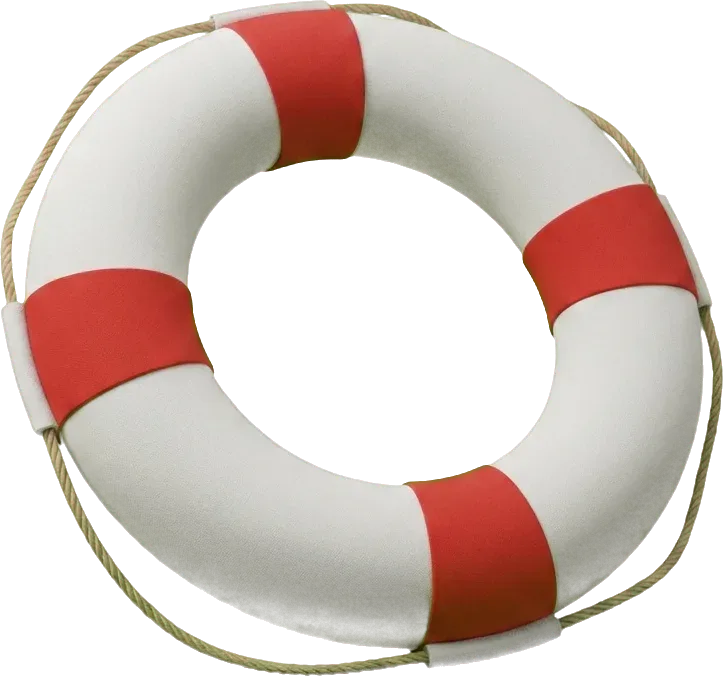
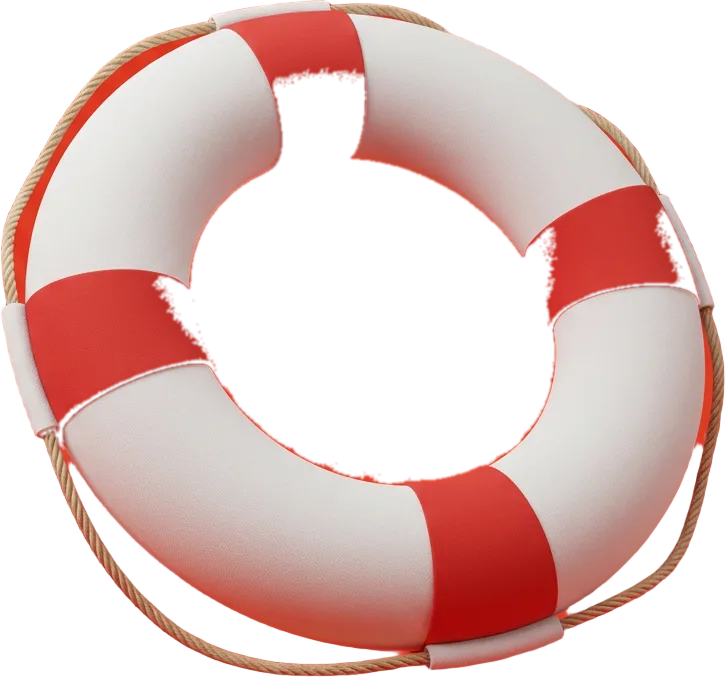
Carte rouge sur page blanche, vague de descente, Approche avant Mission
Le blanc entoure désormais la carte de la hero au lieu d'un liseré ; la
flèche du bas devient une vague blanche creusée dans le rouge. La bouée
est redétourée depuis le BiRefNet de l'image d'origine, seul le trou
étant creusé par diffusion sur le canal bleu (fond b<42, segments b>49) :
fin des voiles et franges des chroma keys successifs. Sections Approche
et Mission inversées, la carte sombre de Mission se posant sur le blanc.

diff --git a/src/app/page.tsx b/src/app/page.tsx
@@ -89,11 +89,67 @@ export default function Home() {
       {/* ─── Héro — carte encadrée, marque géante, bouée 3D ─── */}
       <Hero />
 
+      {/* ─── Notre approche ─── */}
+      <section id="approche" className="bg-white">
+        <div className="mx-auto max-w-6xl px-5 py-20 md:py-28">
+          <Reveal>
+            <p className="text-xs font-black uppercase tracking-widest text-brand">
+              Notre approche
+            </p>
+            <h2 className="mt-3 max-w-3xl text-3xl md:text-5xl font-black leading-tight tracking-tight">
+              On commence par t&apos;écouter.
+            </h2>
+            <p className="mt-7 max-w-2xl text-lg leading-relaxed text-ink/75">
+              Chaque resto est différent. Avant de parler solution, on veut
+              comprendre c&apos;est quoi, ton vrai problème.
+            </p>
+          </Reveal>
+
+          <div className="mt-12 grid gap-8 md:grid-cols-3">
+            {[
+              {
+                n: "1",
+                title: "On t'écoute.",
+                text: "Un appel de 15 minutes. Tu nous parles de ton resto, de tes chiffres, de ce qui gruge ton temps et tes marges.",
+              },
+              {
+                n: "2",
+                title: "On creuse avec toi.",
+                text: "On regarde ensemble ce qui te coûte le plus cher, et on te le montre chiffres en main.",
+              },
+              {
+                n: "3",
+                title: "On règle le problème.",
+                text: "Une solution adaptée à ton resto, pas une recette toute faite. Pas de contrat de 40 pages non plus.",
+              },
+            ].map(({ n, title, text }, i) => (
+              <Reveal key={n} delay={i as 0 | 1 | 2}>
+                <div className="h-full rounded-2xl bg-bone p-7 transition hover:-translate-y-1 hover:shadow-lg">
+                  <p className="font-script text-5xl text-brand">{n}</p>
+                  <h3 className="mt-3 text-xl font-black leading-snug">
+                    {title}
+                  </h3>
+                  <p className="mt-3 leading-relaxed text-ink/75">{text}</p>
+                </div>
+              </Reveal>
+            ))}
+          </div>
+
+          {/* TODO_USER: valider que cette phrase reste exacte tant que la certification n'est pas obtenue */}
+          <Reveal>
+            <p className="mt-10 max-w-2xl text-sm text-ink/60">
+              On travaille déjà avec des restos pilotes de chez nous. Les
+              premiers partenariats officiels seront annoncés bientôt.
+            </p>
+          </Reveal>
+        </div>
+      </section>
+
       {/* ─── Notre mission ─── */}
-      {/* Le fond rouge de la hero se prolonge, et la section arrive comme une
-          carte sombre aux coins arrondis posée dessus : même langage visuel
-          que la carte de la hero, pas de coupure d'aplat rouge/noir. */}
-      <section id="mission" className="bg-hero">
+      {/* La section arrive comme une carte sombre aux coins arrondis posée
+          sur le blanc de la page : même langage visuel que la carte de la
+          hero. */}
+      <section id="mission" className="bg-white">
         <div className="relative overflow-hidden rounded-t-[2rem] bg-ink text-white lg:rounded-t-[3rem]">
         <Image
           src="/faillite.jpg"
@@ -168,62 +224,6 @@ export default function Home() {
             </p>
           </div>
         </div>
-        </div>
-      </section>
-
-      {/* ─── Notre approche ─── */}
-      <section id="approche" className="bg-white">
-        <div className="mx-auto max-w-6xl px-5 py-20 md:py-28">
-          <Reveal>
-            <p className="text-xs font-black uppercase tracking-widest text-brand">
-              Notre approche
-            </p>
-            <h2 className="mt-3 max-w-3xl text-3xl md:text-5xl font-black leading-tight tracking-tight">
-              On commence par t&apos;écouter.
-            </h2>
-            <p className="mt-7 max-w-2xl text-lg leading-relaxed text-ink/75">
-              Chaque resto est différent. Avant de parler solution, on veut
-              comprendre c&apos;est quoi, ton vrai problème.
-            </p>
-          </Reveal>
-
-          <div className="mt-12 grid gap-8 md:grid-cols-3">
-            {[
-              {
-                n: "1",
-                title: "On t'écoute.",
-                text: "Un appel de 15 minutes. Tu nous parles de ton resto, de tes chiffres, de ce qui gruge ton temps et tes marges.",
-              },
-              {
-                n: "2",
-                title: "On creuse avec toi.",
-                text: "On regarde ensemble ce qui te coûte le plus cher, et on te le montre chiffres en main.",
-              },
-              {
-                n: "3",
-                title: "On règle le problème.",
-                text: "Une solution adaptée à ton resto, pas une recette toute faite. Pas de contrat de 40 pages non plus.",
-              },
-            ].map(({ n, title, text }, i) => (
-              <Reveal key={n} delay={i as 0 | 1 | 2}>
-                <div className="h-full rounded-2xl bg-bone p-7 transition hover:-translate-y-1 hover:shadow-lg">
-                  <p className="font-script text-5xl text-brand">{n}</p>
-                  <h3 className="mt-3 text-xl font-black leading-snug">
-                    {title}
-                  </h3>
-                  <p className="mt-3 leading-relaxed text-ink/75">{text}</p>
-                </div>
-              </Reveal>
-            ))}
-          </div>
-
-          {/* TODO_USER: valider que cette phrase reste exacte tant que la certification n'est pas obtenue */}
-          <Reveal>
-            <p className="mt-10 max-w-2xl text-sm text-ink/60">
-              On travaille déjà avec des restos pilotes de chez nous. Les
-              premiers partenariats officiels seront annoncés bientôt.
-            </p>
-          </Reveal>
         </div>
       </section>
 

diff --git a/src/components/Hero.tsx b/src/components/Hero.tsx
@@ -21,11 +21,10 @@ function IconeLinkedIn({ className }: { className?: string }) {
 
 export default function Hero() {
   return (
-    <section id="top" className="bg-hero p-2 text-white sm:p-3 lg:p-4">
-      {/* Le cadre blanc arrondi qui englobe toute la hero. Les languettes
-          haute et basse chevauchent le bord (offsets négatifs = largeur de
-          bordure) pour se fondre dedans. */}
-      <div className="relative flex min-h-[92svh] flex-col rounded-[2rem] border-[10px] border-white pb-14 md:border-[16px] lg:rounded-[3rem] lg:border-[22px] lg:pb-0">
+    <section id="top" className="bg-white p-3 md:p-5 lg:p-6">
+      {/* La carte rouge arrondie posée sur la page blanche. Les languettes
+          blanches (logo, flèche) se fondent dans le blanc qui l'entoure. */}
+      <div className="relative flex min-h-[92svh] flex-col rounded-[2rem] bg-hero pb-14 text-white lg:rounded-[3rem] lg:pb-0">
         {/* Languette haute : le logo. top-0 = appuyée sur le bord intérieur de
             la bordure blanche (continuité blanc sur blanc), le logo reste
             entier dans la languette. */}
@@ -40,13 +39,21 @@ export default function Hero() {
           />
         </div>
 
-        {/* Languette basse : la flèche vers la suite de la page */}
+        {/* Languette basse : une vague blanche creusée dans le bas de la
+            carte, la flèche blanche juste au-dessus de sa crête */}
         <a
-          href="#mission"
-          aria-label="Descendre vers notre mission"
-          className="absolute bottom-0 left-1/2 z-30 -translate-x-1/2 rounded-t-[1.25rem] bg-white px-6 pb-2 pt-3 text-ink transition-colors hover:text-brand md:rounded-t-[1.5rem]"
+          href="#approche"
+          aria-label="Descendre vers la suite"
+          className="absolute -bottom-px left-1/2 z-30 -translate-x-1/2"
         >
-          <ArrowDown className="size-5 animate-bounce" />
+          <ArrowDown className="absolute -top-8 left-1/2 size-5 -translate-x-1/2 animate-bounce text-white" />
+          <svg
+            viewBox="0 0 180 40"
+            aria-hidden="true"
+            className="block h-10 w-44 fill-white"
+          >
+            <path d="M0,40 L0,39 C45,39 48,6 90,6 C132,6 135,39 180,39 L180,40 Z" />
+          </svg>
         </a>
 
         {/* Nav intégrée à la carte */}
@@ -109,13 +116,13 @@ export default function Hero() {
                 pas décodée, et Safari affiche alors un carré sombre. */}
             <div
               aria-hidden="true"
-              className="animate-hero delay-2 absolute -bottom-[5%] left-1/2 h-[14%] w-[72%] -translate-x-1/2 rounded-[50%] bg-ink/25 blur-xl"
+              className="animate-hero delay-2 absolute -bottom-[2%] left-1/2 h-[9%] w-[58%] -translate-x-1/2 rounded-[50%] bg-ink/15 blur-lg"
             />
             <Image
               src="/buoy-3d.webp"
               alt=""
-              width={723}
-              height={676}
+              width={725}
+              height={677}
               preload={true}
               unoptimized
               className="animate-hero delay-2 relative w-full"
